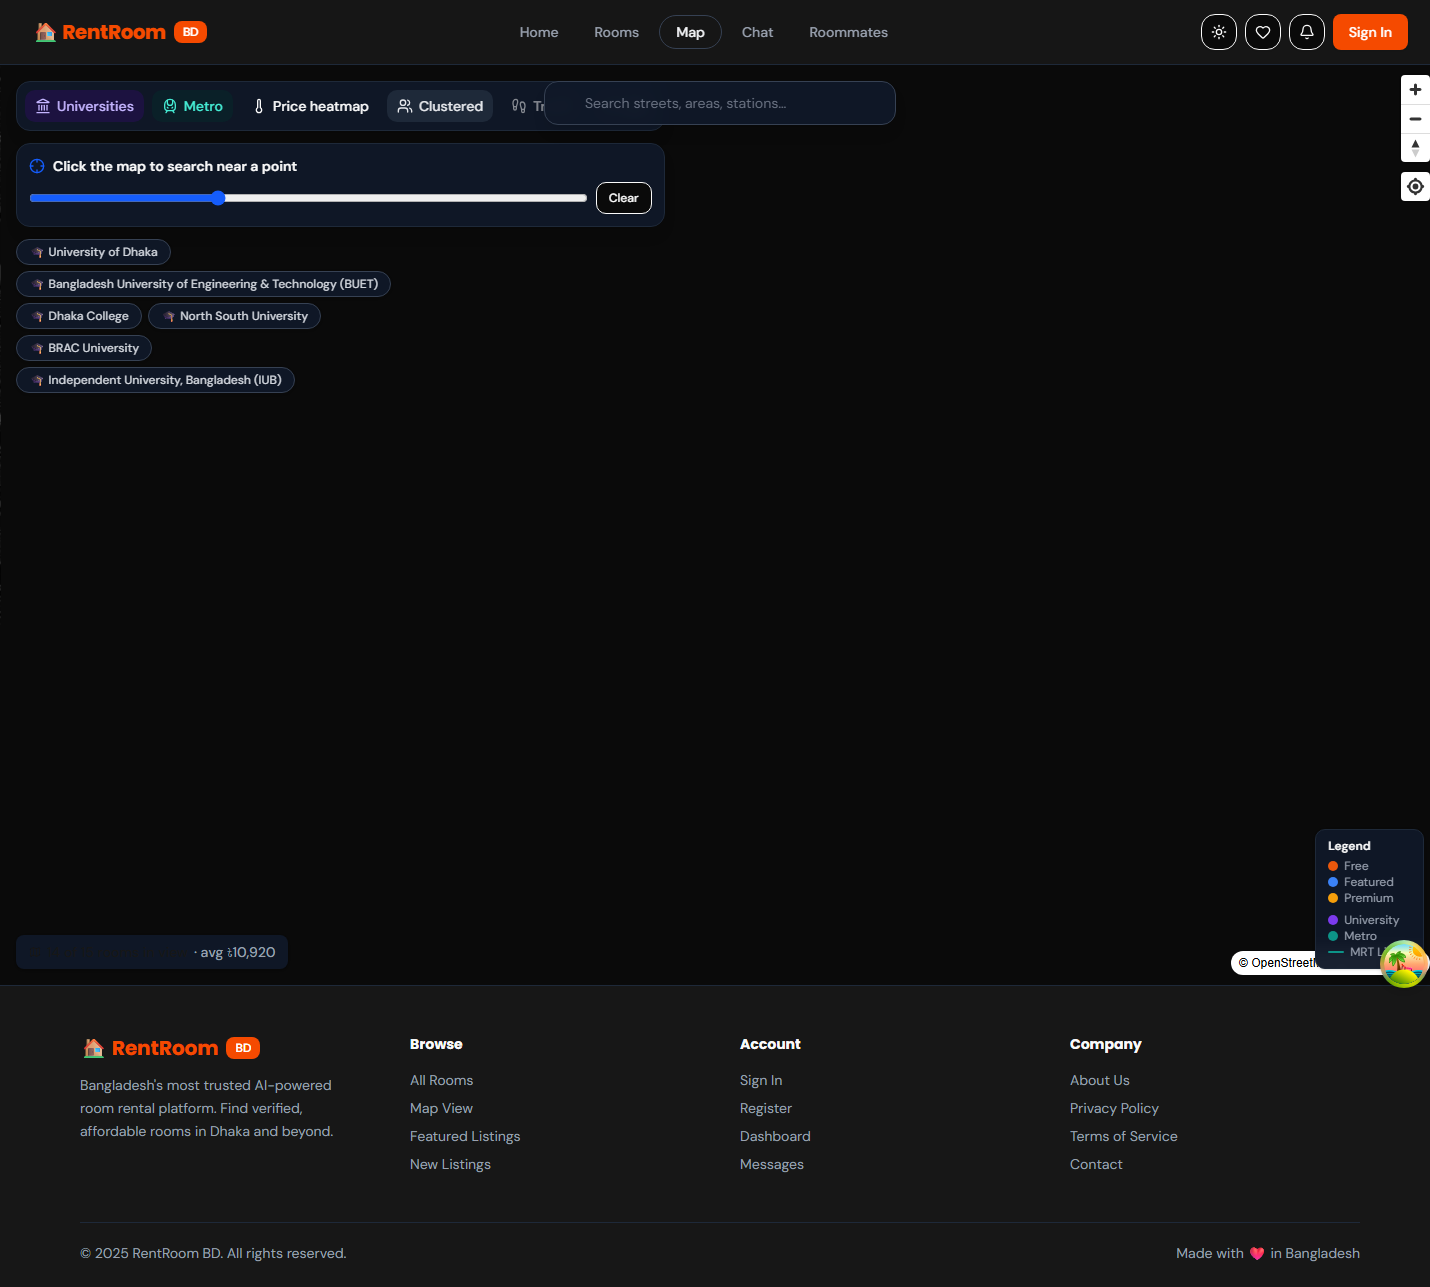
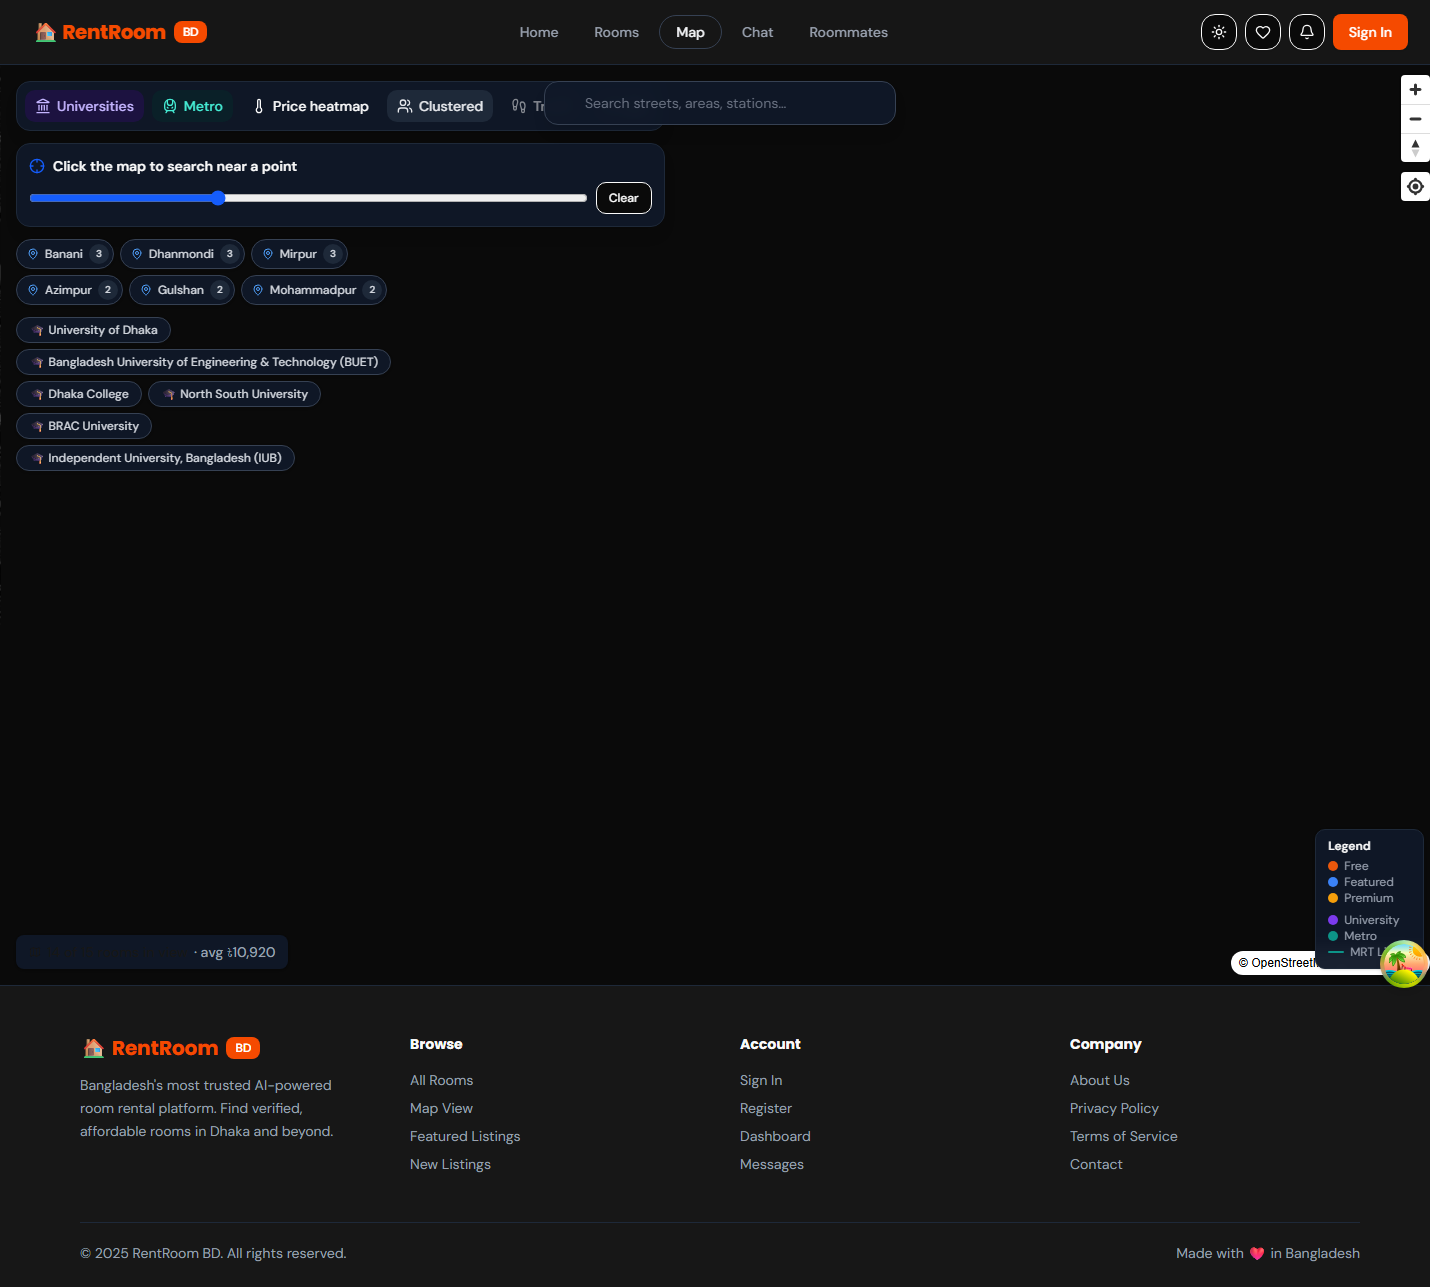
feat: Phase 7 map — directions travel modes, metro ETA, area chips (#16)
- Room popups now have a 🚶 Walk / 🚗 Drive / 🚇 Transit picker — each
  button opens Google Maps with the matching travelmode (origin = search
  point), replacing the single walking-only directions link
- Popups list the nearest MRT station with distance + walking ETA from the
  backend's proximity annotation ("🚇 Kawran Bazar MRT · 2.0 km · ≈ 27 min")
- Area count chips: the viewport's areas appear as tappable chips with live
  available-room counts (from /rooms/summary/ by_area, which now includes
  gazetteer fly-to centers) — tap to fly there and start a radius search
- by_area counts only available rooms so chips match the badge semantics;
  popup widened to 290px and accent lines get brighter dark-theme variants
- 3 new tests (2 backend by_area centers/availability + 1 frontend
  directionsUrl modes), README + map screenshots updated

🤖 Generated with Codebuff

Changed region(s): [[0.0, 0.1865, 0.2769, 0.373]]

diff --git a/frontend/src/pages/Map/Map.tsx b/frontend/src/pages/Map/Map.tsx
@@ -54,6 +54,7 @@ import {
   tierColor,
   travelIsochrones,
   viewSummary,
+  type TravelMode,
 } from "../../lib/mapUtils";
 import { cn } from "../../lib/utils";
 
@@ -638,18 +639,35 @@ export default function Map() {
         room.distanceKm != null
           ? `<div class="map-popup__dist">📍 ${formatDistance(room.distanceKm)} away · ${formatTravelTime(room.distanceKm)} · ${formatDriveTime(room.distanceKm)}</div>`
           : "";
-      const directionsLink = `<a class="map-popup__dir" href="${directionsUrl(
-        { lat: room.lat, lng: room.lng },
-        radiusCenter
-      )}" target="_blank" rel="noopener noreferrer">Get Directions →</a>`;
-      const popup = new maplibregl.Popup({ offset: 22, closeButton: false, maxWidth: "260px" })
+      // Nearest MRT station with walking ETA — the "which line do I ride?"
+      // answer, straight from the backend's proximity annotation.
+      const metroLine = room.proximity?.nearestMetro
+        ? `<div class="map-popup__metro">🚇 ${esc(room.proximity.nearestMetro.name)} · ${formatDistance(
+            room.proximity.nearestMetro.distanceKm
+          )} · ${formatTravelTime(room.proximity.nearestMetro.distanceKm)}</div>`
+        : "";
+      // Travel-mode picker: each mode is its own Google Maps deep-link, so a
+      // tap opens the right route without any popup-state juggling.
+      const dirButton = (mode: TravelMode, label: string) =>
+        `<a class="map-popup__dir" href="${directionsUrl(
+          { lat: room.lat, lng: room.lng },
+          radiusCenter,
+          mode
+        )}" target="_blank" rel="noopener noreferrer">${label}</a>`;
+      const directionsRow = `<div class="map-popup__dirs">
+          ${dirButton("walking", "🚶 Walk")}
+          ${dirButton("driving", "🚗 Drive")}
+          ${dirButton("transit", "🚇 Transit")}
+        </div>`;
+      const popup = new maplibregl.Popup({ offset: 22, closeButton: false, maxWidth: "290px" })
         .setHTML(`
         <div class="map-popup">
           <div class="map-popup__price">৳${room.price.toLocaleString()}<span>/mo</span></div>
           <div class="map-popup__name">${esc(room.name)}</div>
           <div class="map-popup__meta">${esc(room.area)} · ${esc(room.type)} · ★ ${room.rating} (${room.reviews})</div>
+          ${metroLine}
           ${distanceLine}
-          ${directionsLink}
+          ${directionsRow}
           <div class="map-popup__cta">View listing →</div>
         </div>
       `);
@@ -832,6 +850,17 @@ export default function Map() {
     const avg = summary?.avg_price ?? avgPrice(rooms);
     return { total, available, avg: avg != null ? Math.round(avg) : null };
   }, [rooms, summary]);
+
+  // Areas in the current viewport with their room counts — the map's quick
+  // "where are the rooms?" chips. Derived from the same /rooms/summary/ call
+  // that powers the badge, so no extra request.
+  const areaChips = useMemo(
+    () =>
+      (summary?.by_area ?? [])
+        .filter((a) => a.count > 0 && a.lat != null && a.lng != null)
+        .slice(0, 6),
+    [summary]
+  );
 
   // ---- street search handlers --------------------------------------------
   const pickSuggestion = (s: GeocodeSuggestion) => {
@@ -1085,6 +1114,29 @@ export default function Map() {
               </Button>
             </div>
           </div>
+
+          {/* Area count chips — tap to fly there and search near it */}
+          {!radiusCenter && areaChips.length > 0 && (
+            <div className="flex max-w-sm flex-wrap gap-1.5">
+              {areaChips.map((chip) => (
+                <button
+                  key={chip.area}
+                  onClick={() => {
+                    if (chip.lat == null || chip.lng == null) return;
+                    setRadiusCenter({ lat: chip.lat, lng: chip.lng, label: chip.area });
+                    mapRef.current?.flyTo({ center: [chip.lng, chip.lat], zoom: 13 });
+                  }}
+                  className="group flex items-center gap-1.5 rounded-full border border-gray-200 bg-white/95 py-1 pl-2.5 pr-1 text-xs font-medium text-gray-700 shadow-sm backdrop-blur transition-colors hover:border-blue-300 hover:bg-blue-50 hover:text-blue-700 dark:border-gray-700 dark:bg-gray-900/95 dark:text-gray-300 dark:hover:border-blue-600 dark:hover:bg-blue-950/40 dark:hover:text-blue-300"
+                >
+                  <MapPin className="size-3 text-blue-600 dark:text-blue-400" />
+                  {chip.area}
+                  <span className="flex size-5 items-center justify-center rounded-full bg-gray-100 text-[10px] font-bold text-gray-600 transition-colors group-hover:bg-blue-100 group-hover:text-blue-700 dark:bg-gray-800 dark:text-gray-300 dark:group-hover:bg-blue-900 dark:group-hover:text-blue-200">
+                    {chip.count}
+                  </span>
+                </button>
+              ))}
+            </div>
+          )}
 
           {/* Landmark quick-pick chips */}
           {!radiusCenter && (

diff --git a/frontend/src/styles/global.css b/frontend/src/styles/global.css
@@ -141,20 +141,55 @@
   font-weight: 600;
   color: #0d9488;
 }
-.map-popup__dir {
-  display: inline-block;
+.map-popup__metro {
+  display: flex;
+  align-items: center;
+  gap: 4px;
+  margin-top: 4px;
+  font-size: 11px;
+  font-weight: 600;
+  color: #7c3aed;
+}
+/* Brighter accent lines on the dark popup card so the violet/teal stay
+   readable against #111827 (the class-based dark toggle applies here). */
+:is(.dark, [data-theme="dark"]) .map-popup__dist {
+  color: #2dd4bf;
+}
+:is(.dark, [data-theme="dark"]) .map-popup__metro {
+  color: #a78bfa;
+}
+.map-popup__dirs {
+  display: flex;
+  gap: 4px;
   margin-top: 8px;
+}
+.map-popup__dir {
+  flex: 1;
   border-radius: 8px;
   background: #0d9488;
-  padding: 6px 12px;
-  font-size: 11px;
+  padding: 6px 4px;
+  font-size: 10px;
   font-weight: 700;
   color: #fff;
+  text-align: center;
   text-decoration: none;
+  white-space: nowrap;
   transition: background 0.15s ease;
 }
 .map-popup__dir:hover {
   background: #0f766e;
+}
+.map-popup__dir:nth-child(2) {
+  background: #2563eb;
+}
+.map-popup__dir:nth-child(2):hover {
+  background: #1d4ed8;
+}
+.map-popup__dir:nth-child(3) {
+  background: #7c3aed;
+}
+.map-popup__dir:nth-child(3):hover {
+  background: #6d28d9;
 }
 .map-popup__cta {
   margin-top: 6px;

diff --git a/frontend/src/lib/mapUtils.ts b/frontend/src/lib/mapUtils.ts
@@ -233,6 +233,9 @@ export function formatDriveTime(distanceKm: number): string {
   return `≈ ${minutes} min drive`;
 }
 
+/** Travel modes the directions deep-link supports (Google Maps travelmode). */
+export type TravelMode = "walking" | "driving" | "transit";
+
 /**
  * Google Maps directions deep-link between two points. Used by the map
  * popup's "Get Directions" action — opens Maps with the route pre-filled so
@@ -241,12 +244,13 @@ export function formatDriveTime(distanceKm: number): string {
  */
 export function directionsUrl(
   destination: { lat: number; lng: number },
-  origin?: { lat: number; lng: number } | null
+  origin?: { lat: number; lng: number } | null,
+  mode: TravelMode = "walking"
 ): string {
   const point = (p: { lat: number; lng: number }) => `${p.lat.toFixed(6)},${p.lng.toFixed(6)}`;
   const dest = `destination=${point(destination)}`;
   const orig = origin ? `&origin=${point(origin)}` : "";
-  return `https://www.google.com/maps/dir/?api=1${orig}&${dest}&travelmode=walking`;
+  return `https://www.google.com/maps/dir/?api=1${orig}&${dest}&travelmode=${mode}`;
 }
 
 /**

diff --git a/frontend/src/types/index.ts b/frontend/src/types/index.ts
@@ -196,14 +196,20 @@ export interface GeocodeSuggestion {
   lng: number;
 }
 
-/** Aggregate room counts from GET /rooms/summary/ (map badge). */
+/** Aggregate room counts from GET /rooms/summary/ (map badge + area chips). */
 export interface MapSummary {
   total: number;
   available: number;
   avg_price: number | null;
   min_price: number | null;
   max_price: number | null;
-  by_area: { area: string; count: number }[];
+  by_area: {
+    area: string;
+    count: number;
+    /** Fly-to point for the area chip, when the gazetteer knows the area. */
+    lat?: number;
+    lng?: number;
+  }[];
 }
 
 // ---- API payloads ----

diff --git a/frontend/src/lib/mapUtils.test.ts b/frontend/src/lib/mapUtils.test.ts
@@ -251,6 +251,13 @@ describe("directionsUrl", () => {
     expect(url).toContain("destination=23.792611,90.416722");
     expect(url).not.toContain(".2222");
   });
+
+  it("defaults to walking and accepts driving/transit modes", () => {
+    const dest = { lat: 23.746, lng: 90.376 };
+    expect(directionsUrl(dest)).toContain("travelmode=walking");
+    expect(directionsUrl(dest, null, "driving")).toContain("travelmode=driving");
+    expect(directionsUrl(dest, null, "transit")).toContain("travelmode=transit");
+  });
 });
 
 describe("walkingIsochrone", () => {

diff --git a/backend/rooms/views.py b/backend/rooms/views.py
@@ -30,7 +30,7 @@ from .serializers import (
     RoomDetailSerializer,
     RoomListSerializer,
 )
-from .streets import search_streets
+from .streets import area_center, search_streets
 
 
 class RoomFilter(django_filters.FilterSet):
@@ -433,8 +433,14 @@ class RoomViewSet(viewsets.ModelViewSet):
             min_price=models.Min("price"),
             max_price=models.Max("price"),
         )
+        # Count *available* rooms per area so the chips' numbers match the
+        # badge's "N of M available" framing — a chip showing "Dhanmondi 3"
+        # leads only to bookable listings.
         by_area = (
-            queryset.values("area").annotate(count=models.Count("id")).order_by("-count", "area")
+            queryset.filter(is_available=True)
+            .values("area")
+            .annotate(count=models.Count("id"))
+            .order_by("-count", "area")
         )
         return Response(
             {
@@ -445,7 +451,19 @@ class RoomViewSet(viewsets.ModelViewSet):
                 else None,
                 "min_price": float(agg["min_price"]) if agg["min_price"] is not None else None,
                 "max_price": float(agg["max_price"]) if agg["max_price"] is not None else None,
-                "by_area": [{"area": row["area"], "count": row["count"]} for row in by_area],
+                "by_area": [
+                    {
+                        "area": row["area"],
+                        "count": row["count"],
+                        # Fly-to point for the map's area chips, when known.
+                        **(
+                            {"lat": center[0], "lng": center[1]}
+                            if (center := area_center(row["area"]))
+                            else {}
+                        ),
+                    }
+                    for row in by_area
+                ],
             }
         )
 

diff --git a/backend/rooms/tests.py b/backend/rooms/tests.py
@@ -262,12 +262,23 @@ class RoomSummaryAPITests(APITestCase):
         self.assertEqual(res.data["min_price"], 7000.0)
         self.assertEqual(res.data["max_price"], 11000.0)
 
+    def test_summary_by_area_includes_centers_for_known_areas(self):
+        res = self.client.get("/api/v1/rooms/summary/")
+        row = next(r for r in res.data["by_area"] if r["area"] == "Dhanmondi")
+        self.assertEqual(row["count"], 1)
+        # The gazetteer knows Dhanmondi's centre, so the chip can fly there.
+        self.assertIn("lat", row)
+        self.assertIn("lng", row)
+        self.assertGreater(row["lat"], 23.7)
+        self.assertLess(row["lat"], 23.8)
+
     def test_summary_respects_bbox(self):
         # A tight box around Mirpur excludes the Dhanmondi room.
         res = self.client.get("/api/v1/rooms/summary/?bbox=90.36,23.80,90.37,23.82")
         self.assertEqual(res.status_code, 200)
         self.assertEqual(res.data["total"], 1)
-        self.assertIn("Mirpur", {row["area"] for row in res.data["by_area"]})
+        # The Mirpur room is unavailable, so per-area chips exclude it.
+        self.assertEqual(res.data["by_area"], [])
 
     def test_summary_respects_area_filter(self):
         res = self.client.get("/api/v1/rooms/summary/?area=Dhanmondi")
@@ -277,7 +288,8 @@ class RoomSummaryAPITests(APITestCase):
     def test_summary_respects_radius(self):
         res = self.client.get("/api/v1/rooms/summary/?near_landmark=mrt_mirpur_10&radius_km=3")
         self.assertEqual(res.data["total"], 1)
-        self.assertEqual(res.data["by_area"][0]["area"], "Mirpur")
+        # Mirpur room is unavailable — chips only surface bookable areas.
+        self.assertEqual(res.data["by_area"], [])
 
     def test_summary_invalid_bbox_returns_400(self):
         res = self.client.get("/api/v1/rooms/summary/?bbox=bad")

diff --git a/backend/rooms/streets.py b/backend/rooms/streets.py
@@ -114,6 +114,21 @@ STREETS: tuple[Street, ...] = (
 )
 
 
+_BY_NAME: dict[str, Street] = {street.name: street for street in STREETS}
+
+
+def area_center(area_name: str) -> tuple[float, float] | None:
+    """Center coordinates for a district/area name, if the gazetteer knows it.
+
+    Used to attach a fly-to point to each row of the room-count summary — so
+    an "areas in view" chip knows where to take the map when clicked.
+    """
+    street = _BY_NAME.get(area_name)
+    if street is None:
+        return None
+    return (street.lat, street.lng)
+
+
 def search_streets(query: str, limit: int = 8) -> list[Street]:
     """Ranked street/area suggestions for an autocomplete query.
 

diff --git a/README.md b/README.md
@@ -7,7 +7,7 @@
 [![TypeScript](https://img.shields.io/badge/TypeScript-Strict-3178C6?logo=typescript)](https://typescriptlang.org)
 [![TailwindCSS](https://img.shields.io/badge/Tailwind-v4-06B6D4?logo=tailwindcss)](https://tailwindcss.com)
 [![DRF](https://img.shields.io/badge/DRF-3.15-a30000?logo=django)](https://www.django-rest-framework.org/)
-[![Tests](<https://img.shields.io/badge/tests-268%20(136%20BE%20%2B%20132%20FE)-success>)](https://github.com/SadmaFaahiim/Rentora/actions)
+[![Tests](<https://img.shields.io/badge/tests-270%20(137%20BE%20%2B%20133%20FE)-success>)](https://github.com/SadmaFaahiim/Rentora/actions)
 [![Coverage](https://img.shields.io/badge/coverage-BE%2060%25%20%E2%80%A2%20FE%2099%25-success)](https://github.com/SadmaFaahiim/Rentora/actions)
 [![CI](https://img.shields.io/badge/CI-GitHub%20Actions-2088FF?logo=githubactions)](https://github.com/SadmaFaahiim/Rentora/actions)
 [![License](https://img.shields.io/badge/License-MIT-green.svg)](LICENSE)
@@ -64,7 +64,9 @@
 - **Radius search** — click a point on the map (or a university chip) and drag a slider to see rooms within 0.5–5 km, powered by the geo backend's `near_lat`/`near_lng` + `radius_km`
 - **Travel-time overlay** — with a search point active, toggle **Travel** to draw walking isochrones (10/20/30 min bands, green → amber → red) so tenants see how far they can get on foot from a university, metro or office
 - **Street search + autocomplete** — type a street, area or station ("gulshan", "mirpur road", "shahbagh") and pick a suggestion to fly there and start a radius search, powered by the curated Dhaka gazetteer **with an OpenStreetMap Nominatim fallback** (`/rooms/geocode/`) so even streets outside the curated list geocode
-- **Get Directions + ETA** — every room popup shows walking **and** driving ETA ("≈ 8 min walk · ≈ 2 min drive") plus a **Get Directions** button that opens Google Maps with the route pre-filled (origin = your search point)
+- **Get Directions + travel-mode toggle** — every room popup shows walking **and** driving ETA ("≈ 8 min walk · ≈ 2 min drive") plus a 🚶 **Walk** / 🚗 **Drive** / 🚇 **Transit** picker that opens Google Maps with the right route pre-filled (origin = your search point)
+- **Metro ETA in popups** — each popup lists the nearest MRT station with distance + walking time ("🚇 Kawran Bazar MRT · 2.0 km · ≈ 27 min walk") from the backend's `proximity` annotation
+- **Area count chips** — the current viewport's areas appear as tappable chips with live room counts ("Dhanmondi 3 · Mirpur 3") from `/rooms/summary/` `by_area`; tap one to fly there and start a radius search
 - **Metro route corridor** — MRT Line 6 is drawn as a polyline through its stations (Uttara → Motijheel), visible with the Metro toggle or whenever the travel overlay is active; stations within a 30-minute walk of the search point get a highlighted ring
 - **Room-count API badge** — the "N of M rooms in view" badge reads the authoritative server count (`/rooms/summary/` — COUNT/AVG with the same geo filters), so it is never capped by list pagination
 - **Distance markers** — every listing in a radius search shows `formatDistance` + walking time ("1.2 km away · ≈ 16 min walk") in its map popup and the side list, from the backend's `distance_km` annotation
@@ -83,7 +85,7 @@
 **Engineering**
 
 - **Coverage history per branch** — every PR and main push appends its own `history-<branch>.csv` + SVG chart to the `coverage-history` branch (viewable `index.html` linking all branches)
-- 268 automated tests (136 backend + 132 frontend) · coverage gates (BE ≥50%, FE ≥55%)
+- 270 automated tests (137 backend + 133 frontend) · coverage gates (BE ≥50%, FE ≥55%)
 - Ruff + ESLint + Prettier with husky/lint-staged pre-commit hooks
 - GitHub Actions CI (backend, frontend, lint, coverage-summary PR comment, per-branch coverage history)
 - Route-level code splitting (React.lazy) — smaller bundles
@@ -108,7 +110,7 @@
 | **Bonus** | 2FA recovery codes (10 one-time backups) + email-verified enable                                  | ✅ Shipped           |
 | **Bonus** | Passkeys / WebAuthn (passwordless login, conditional UI)                                          | ✅ Shipped           |
 | **Bonus** | Geo backend (bbox / radius / landmark queries)                                                    | ✅ Shipped           |
-| **7**     | Map (MapLibre GL, clustering, split view, radius + travel overlay, street search, metro routes, room-count API) | ✅ Shipped |
+| **7**     | Map (MapLibre GL, clustering, split view, radius + travel overlay, street search, metro routes, room-count API, directions + metro ETA + area chips) | ✅ Shipped |
 | **8**     | Docker Compose + production deployment + HTTPS                                                    | ⏳ Next — CI/CD done |
 
 ---
@@ -278,8 +280,8 @@ Quality is enforced **in CI and at commit time** — style or coverage drift fai
 
 | Suite             | Count | Gate                                               |
 | ----------------- | ----- | -------------------------------------------------- |
-| Backend (Django)  | 136   | ✅ passing · coverage ≥ 50% lines (currently ~61%) |
-| Frontend (Vitest) | 132   | ✅ passing · coverage ≥ 55% lines (currently ~99%) |
+| Backend (Django)  | 137   | ✅ passing · coverage ≥ 50% lines (currently ~61%) |
+| Frontend (Vitest) | 133   | ✅ passing · coverage ≥ 55% lines (currently ~99%) |
 
 ```bash
 # Backend
